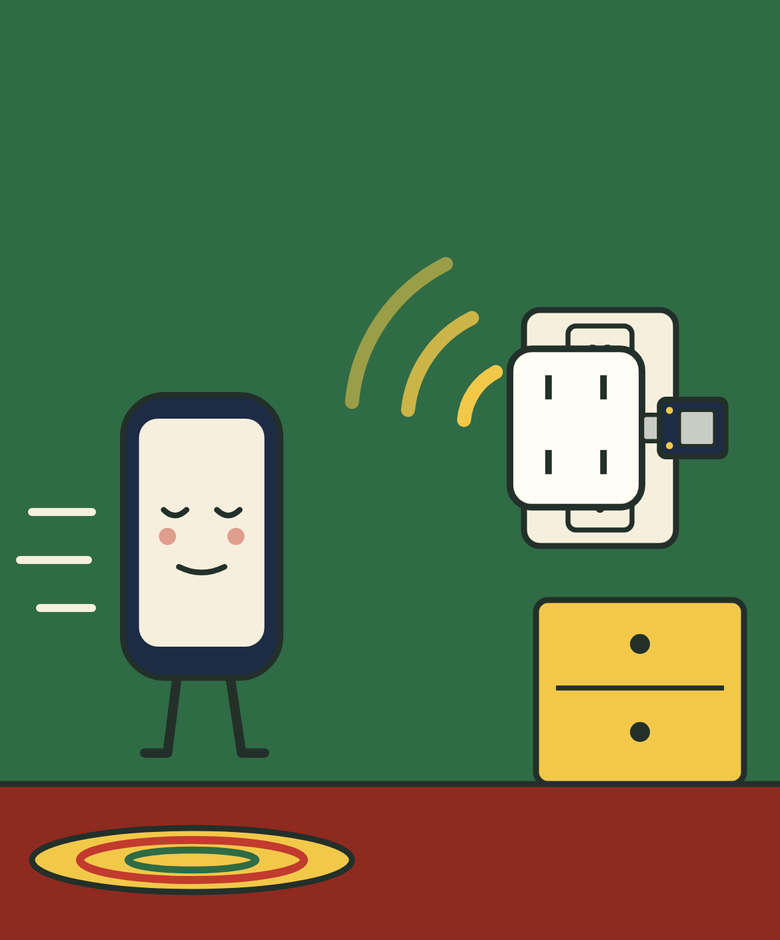
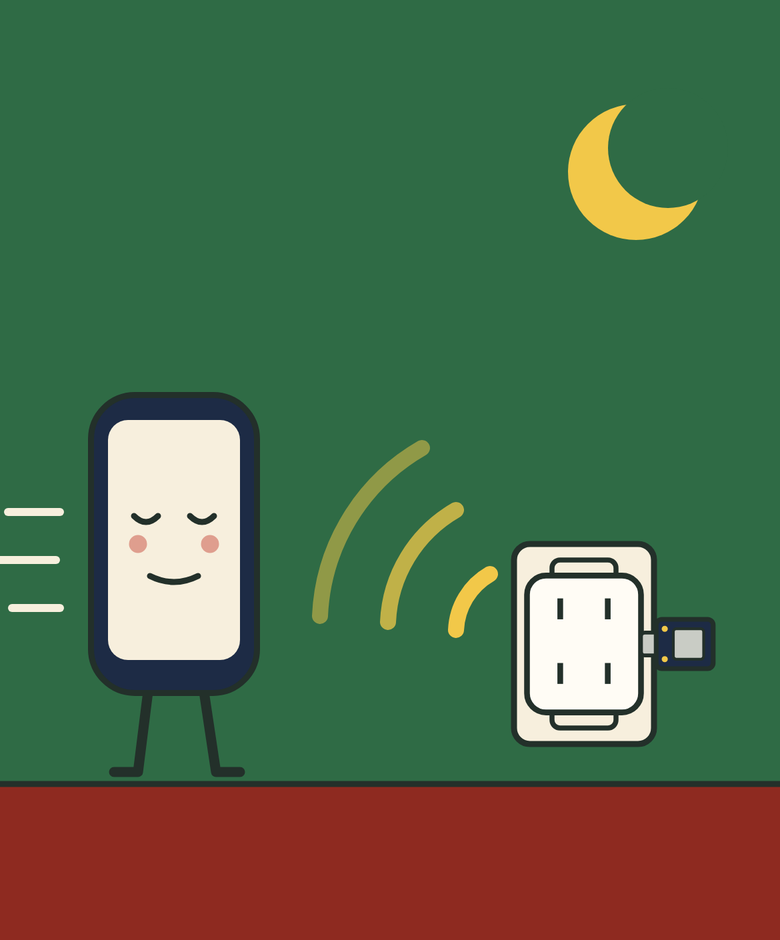
Simplify the hub scene: phone, hub and signal only, hub low on the wall like a real outlet
Claude-Session: https://claude.ai/code/session_015S3sUoq8TabLcWWDxAxQY4

diff --git a/website/public/index.html b/website/public/index.html
@@ -36,7 +36,7 @@
 </section>
 
 <section class="wrap split">
-<img src="/assets/beacon.png" alt="A sleepy phone walking toward a small Bluetooth hub plugged into an outlet cube by the nightstand." width="780" height="940" loading="lazy">
+<img src="/assets/beacon.png" alt="A sleepy phone walking toward a small Bluetooth hub plugged into an outlet cube on the wall." width="780" height="940" loading="lazy">
 <div>
 <h2>What you need</h2>
 <p>A small Bluetooth beacon by your bed. We recommend a <strong>bedroom hub</strong>: a thumbnail-sized <strong>Seeed XIAO ESP32-C6</strong> board, about $36 for <a href="/beacon#hub">the whole kit</a>. You install it once from a Mac or PC in about a minute, then it plugs into a small outlet cube by the bed, with no Wi-Fi, account or battery. You set exactly where the bedroom ends, and walking out lifts the block within seconds.</p>

diff --git a/docs/art/guide-scenes.py b/docs/art/guide-scenes.py
@@ -205,23 +205,18 @@ def scene_plan():
 
 
 def scene_hub():
-    """Onboarding "Mark the bedroom": the phone walks toward the bedroom hub on its outlet cube,
-    whose signal reaches out to it. Same layout as the original BeaconScene."""
-    rug = (f'<ellipse cx="96" cy="430" rx="80" ry="16" fill="{Y}" stroke="{INK}" stroke-width="{SW}"/>'
-           f'<ellipse cx="96" cy="430" rx="56" ry="10" fill="none" stroke="{R}" stroke-width="4"/>'
-           f'<ellipse cx="96" cy="430" rx="32" ry="5" fill="none" stroke="{G}" stroke-width="3.5"/>')
-    stand = (f'<rect x="268" y="300" width="104" height="92" rx="6" fill="{Y}" stroke="{INK}" stroke-width="{SW}"/>'
-             f'<line x1="278" y1="344" x2="362" y2="344" stroke="{INK}" stroke-width="2.5"/>'
-             f'<circle cx="320" cy="322" r="5" fill="{INK}"/><circle cx="320" cy="366" r="5" fill="{INK}"/>')
-    wall = plate(300, 214, 76, 118) + hub(288, 214, 1.1)
+    """Onboarding "Mark the bedroom": the phone walks in toward the bedroom hub, an outlet cube low
+    on the wall with the XIAO board on its side, and the hub's signal reaches out to it. Kept to
+    three things (phone, hub, signal) so it reads at a glance."""
+    wall = plate(292, 322, 70, 100) + hub(292, 322, 0.95)
     waves = "".join(
-        f'<path d="M{262 - r:.0f},{214 - r*0.15:.0f} a{r},{r} 0 0 1 {r*0.55:.0f},{-r*0.8:.0f}" fill="none" '
-        f'stroke="{Y}" stroke-opacity="{op}" stroke-width="7" stroke-linecap="round"/>'
-        for r, op in [(30, 1), (58, 0.8), (86, 0.55)])
+        f'<path d="M{262 - r:.0f},{318 - r*0.1:.0f} a{r},{r} 0 0 1 {r*0.5:.0f},{-r*0.82:.0f}" fill="none" '
+        f'stroke="{Y}" stroke-opacity="{op}" stroke-width="8" stroke-linecap="round"/>'
+        for r, op in [(34, 1), (68, 0.75), (102, 0.5)])
     speed = "".join(f'<line x1="{x1}" y1="{y}" x2="{x2}" y2="{y}" stroke="{CREAM}" stroke-width="4" stroke-linecap="round"/>'
-                    for x1, x2, y in [(16, 46, 256), (10, 44, 280), (20, 46, 304)])
-    return frame(rug + stand + wall + waves + speed + phone(60, 196, 0.95, mood="sleep"))
-
+                    for x1, x2, y in [(4, 30, 256), (0, 28, 280), (6, 30, 304)])
+    moon = f'<circle cx="318" cy="86" r="34" fill="{Y}"/><circle cx="334" cy="74" r="30" fill="{G}"/>'
+    return frame(moon + wall + waves + speed + phone(44, 196, 1.0, mood="sleep"))
 
 SCENES = {
     "HubScene": scene_hub,
